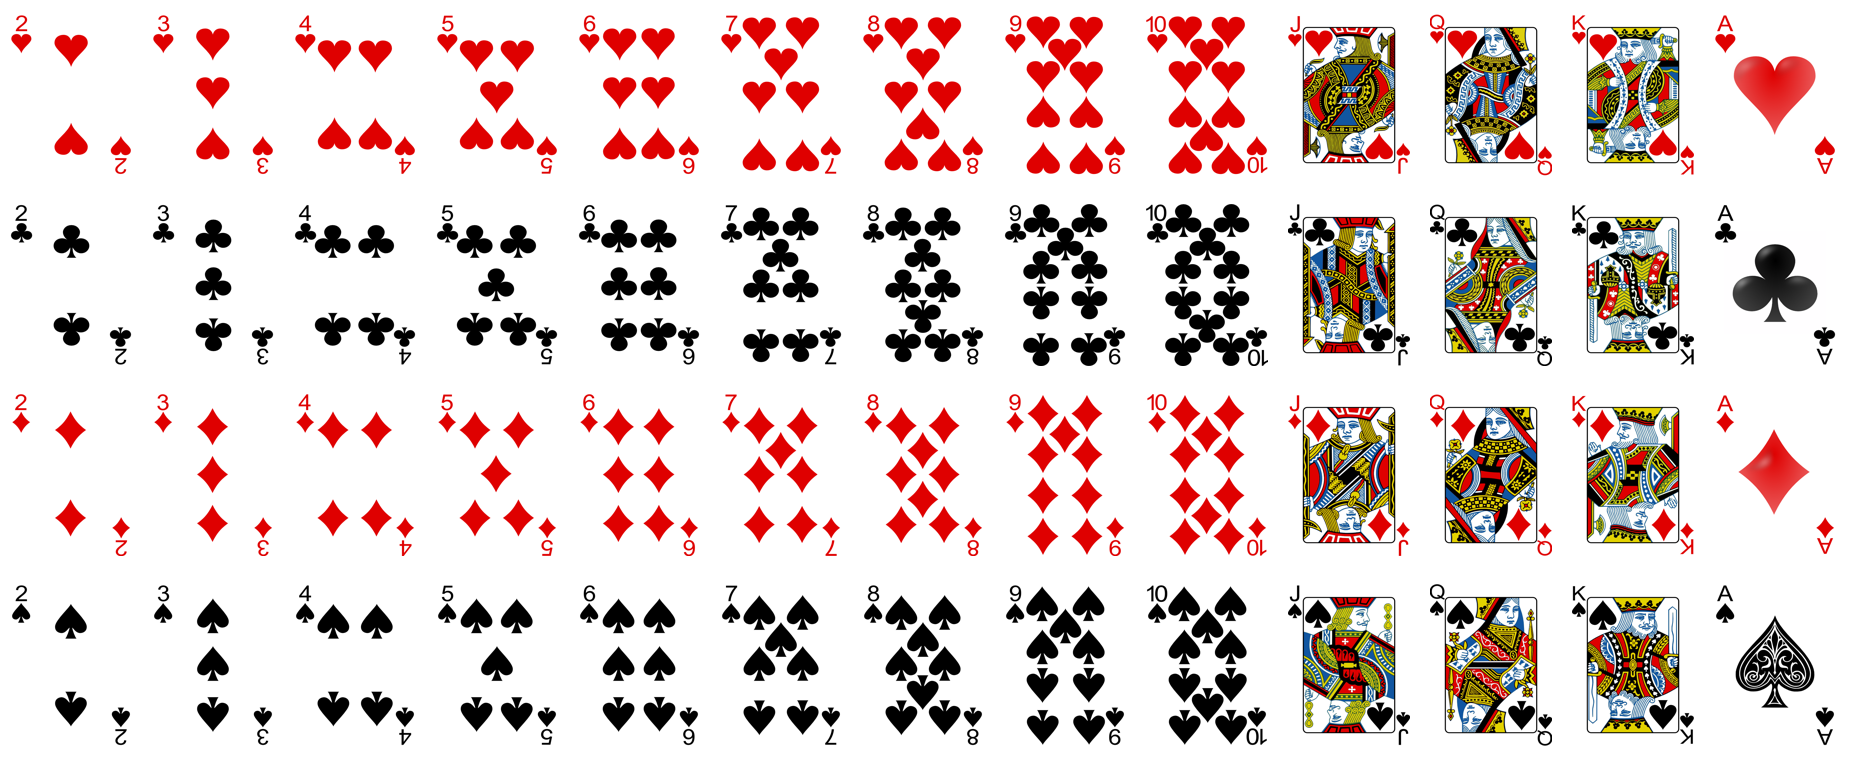
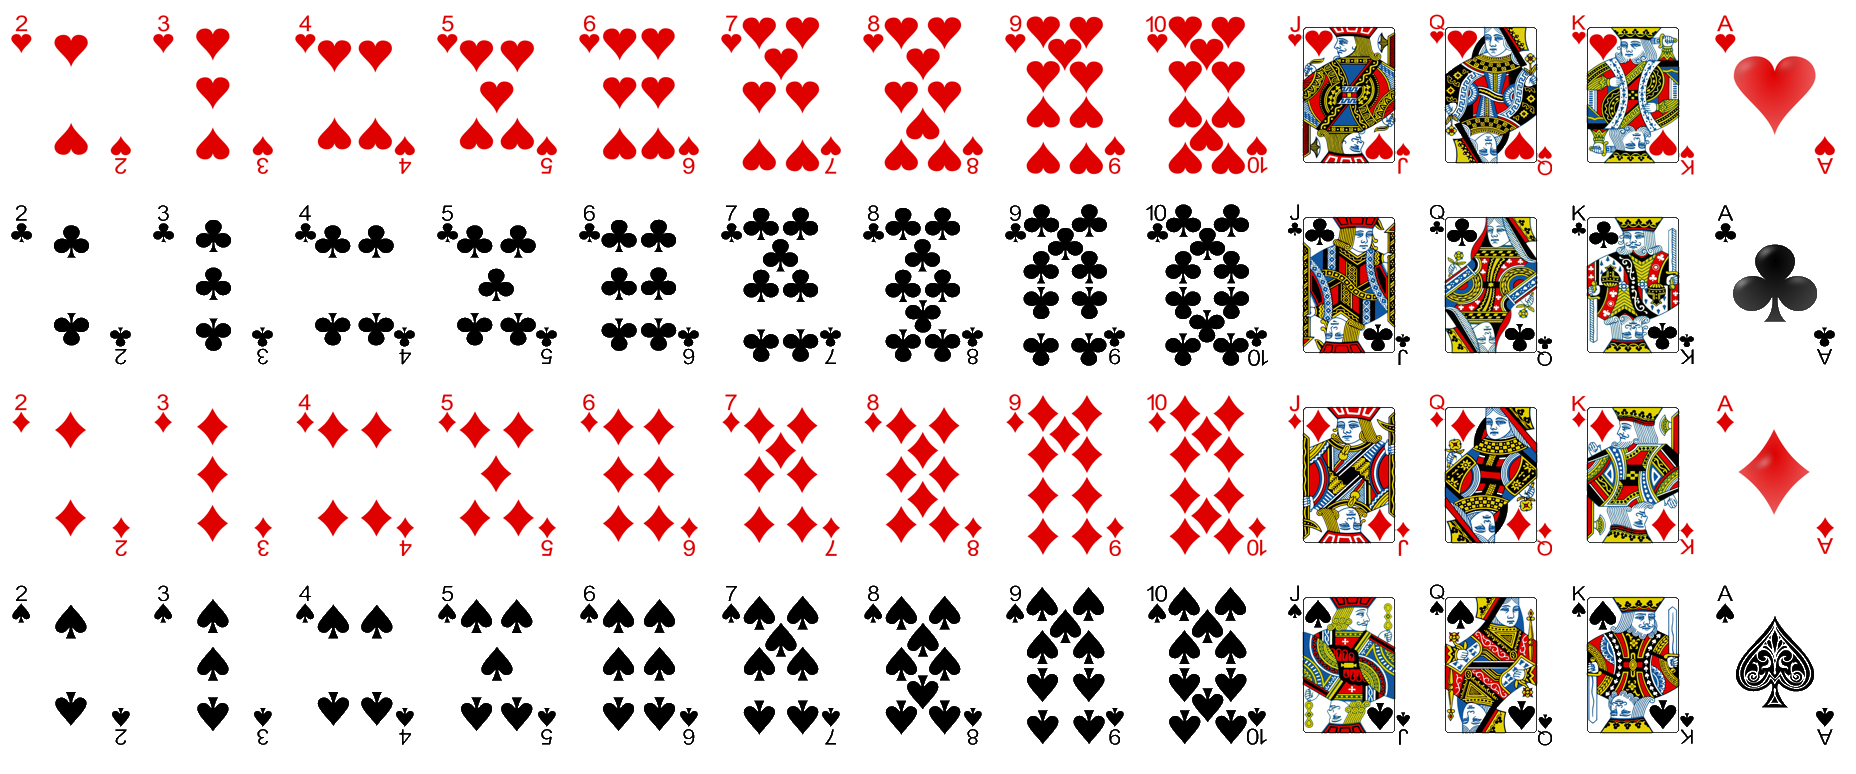
Les choses ne marchent pas, ne fonctionnent pas (abandon du bloom)

Changed region(s): [[0.9375, 0.8062, 0.9688, 0.8992]]

diff --git a/grid.py b/grid.py
@@ -1,6 +1,7 @@
 # pour mettre un set de cartes dans un tableau 13x4 (sera plus pratique à charger en godot)
 
 from PIL import Image, ImageDraw, ImageFilter
+from math import sqrt
 
 UPSCALE = 2
 CARD_WIDTH = UPSCALE * 61
@@ -22,7 +23,11 @@ sep = "_of_"
 def dist(t1, t2):
     (a1, b1, c1, d1) = t1
     (a2, b2, c2, d2) = t2
-    return abs(d1 - d2)
+    return sqrt((a1 - a2) ** 2 + (b1 - b2) ** 2 + (c1 - c2) ** 2)
+
+def grey(c):
+    (r, g, b, a) = c
+    return abs(r - g) + abs(g - b) + abs(b - r)
 
 for line in range(4):
     for col in range(13):
@@ -37,7 +42,7 @@ width, height = base.size
 pixdata = base.load()
 for y in range(height):
     for x in range(width):
-        if dist(pixdata[x, y], (255, 255, 255, 0)) <= 174:
-            pixdata[x, y] = (255, 255, 255, 255)
+        if grey(pixdata[x, y]) <= 2 and dist(pixdata[x, y], (0, 0, 0, 255)) >= 250:
+            pixdata[x, y] = (0, 0, 0, 0)
 
 base.save("output.png")
